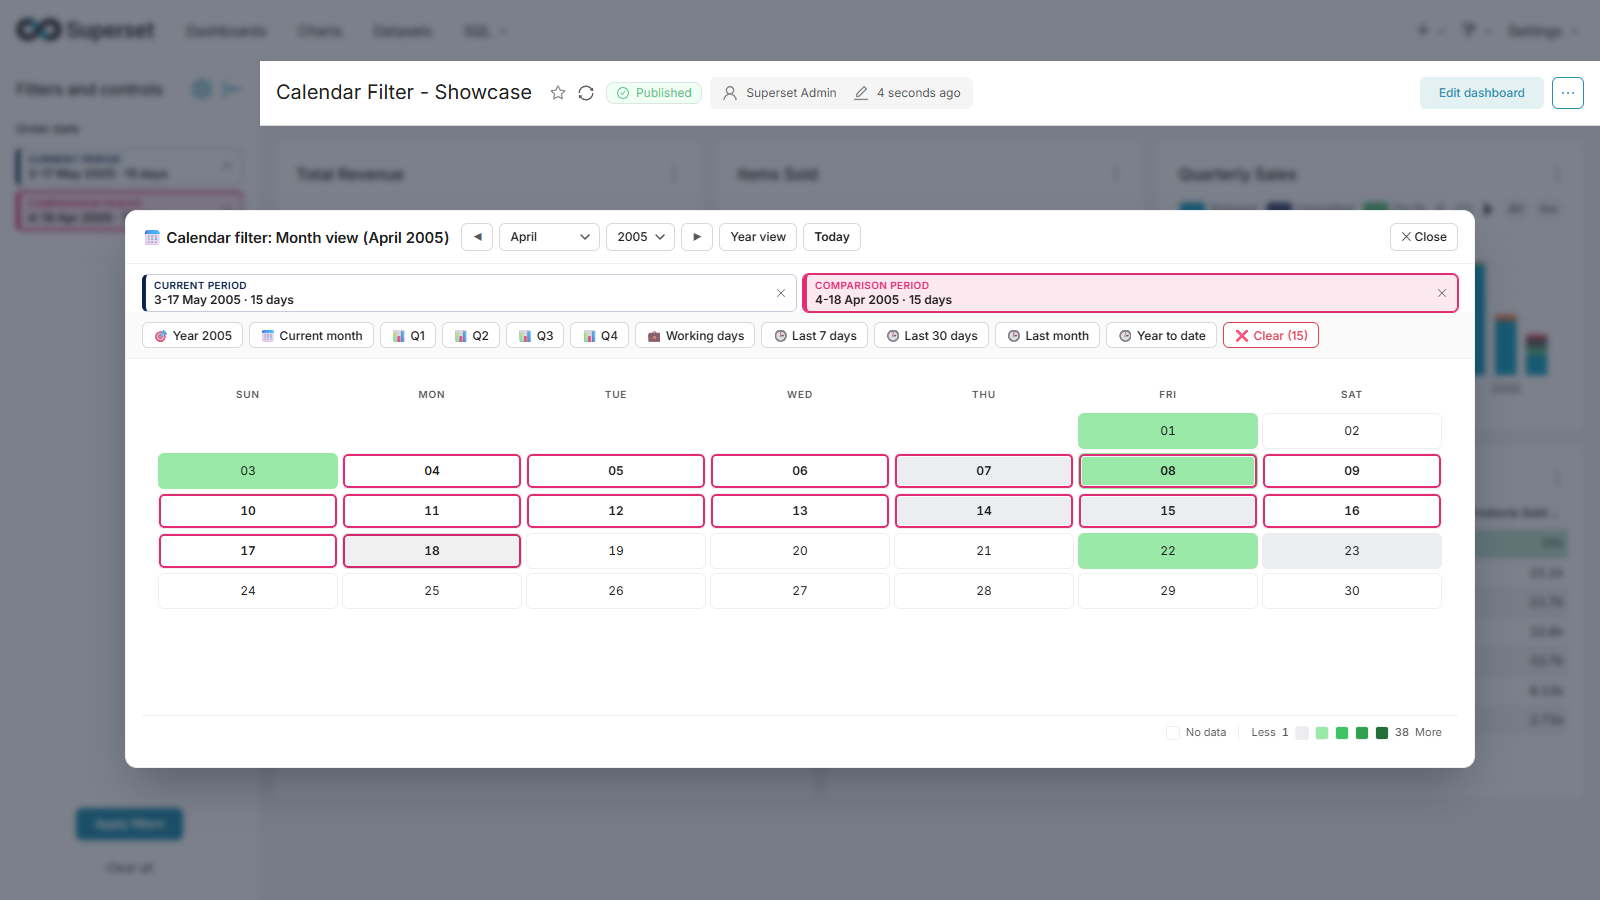
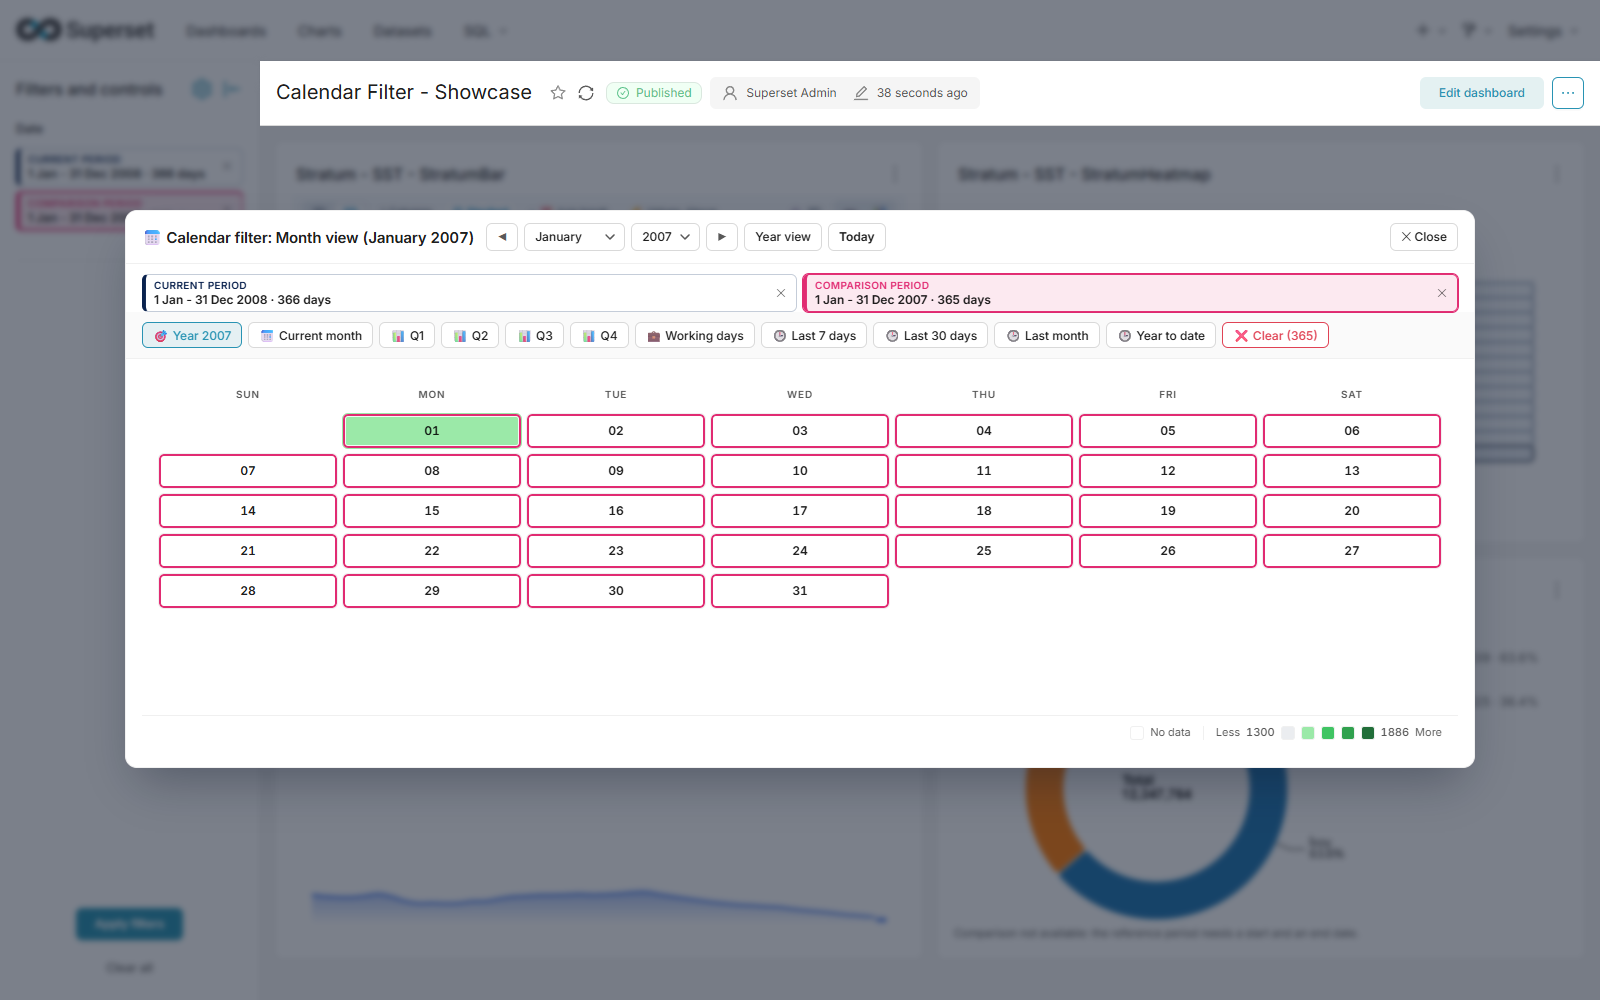
docs(readme): show the dual period filter driving the Stratum charts

Changed region(s): [[0.0, 0.0311, 1.0, 0.6533], [0.0312, 0.7156, 0.9375, 0.9644], [0.9062, 0.56, 1.0, 0.6222]]

diff --git a/README.md b/README.md
@@ -16,13 +16,13 @@
 
 ![Calendar Filter in Dashboard](docs/screenshots/sales_dashboard_calendar.png)
 
-*Figure 1: Calendar Filter in the native filter bar of an Apache Superset dashboard. The two cards name the current and the comparison period with the range each one covers, and the charts follow both.*
+*Figure 1: Calendar Filter in the native filter bar of an Apache Superset dashboard. The two cards name the current and the comparison period with the range each one covers, and the StratumBar, StratumHeatmap, StratumKPI and StratumDonut charts follow both (the donut reads "2008 vs 2007", the KPI shows the change against the comparison period).*
 
 ### 🗓 Month View & Selection Detail
 
 ![Calendar Filter Month View](docs/screenshots/live_calendar_filter.png)
 
-*Figure 2: Month view with a current period (3-17 May) and a comparison period (4-18 Apr), the metric heatmap ramp, shortcut buttons and month/year navigation.*
+*Figure 2: Month view with a current period (year 2008) and a comparison period (year 2007, ringed in magenta), the metric heatmap ramp, shortcut buttons and month/year navigation.*
 
 ---
 
